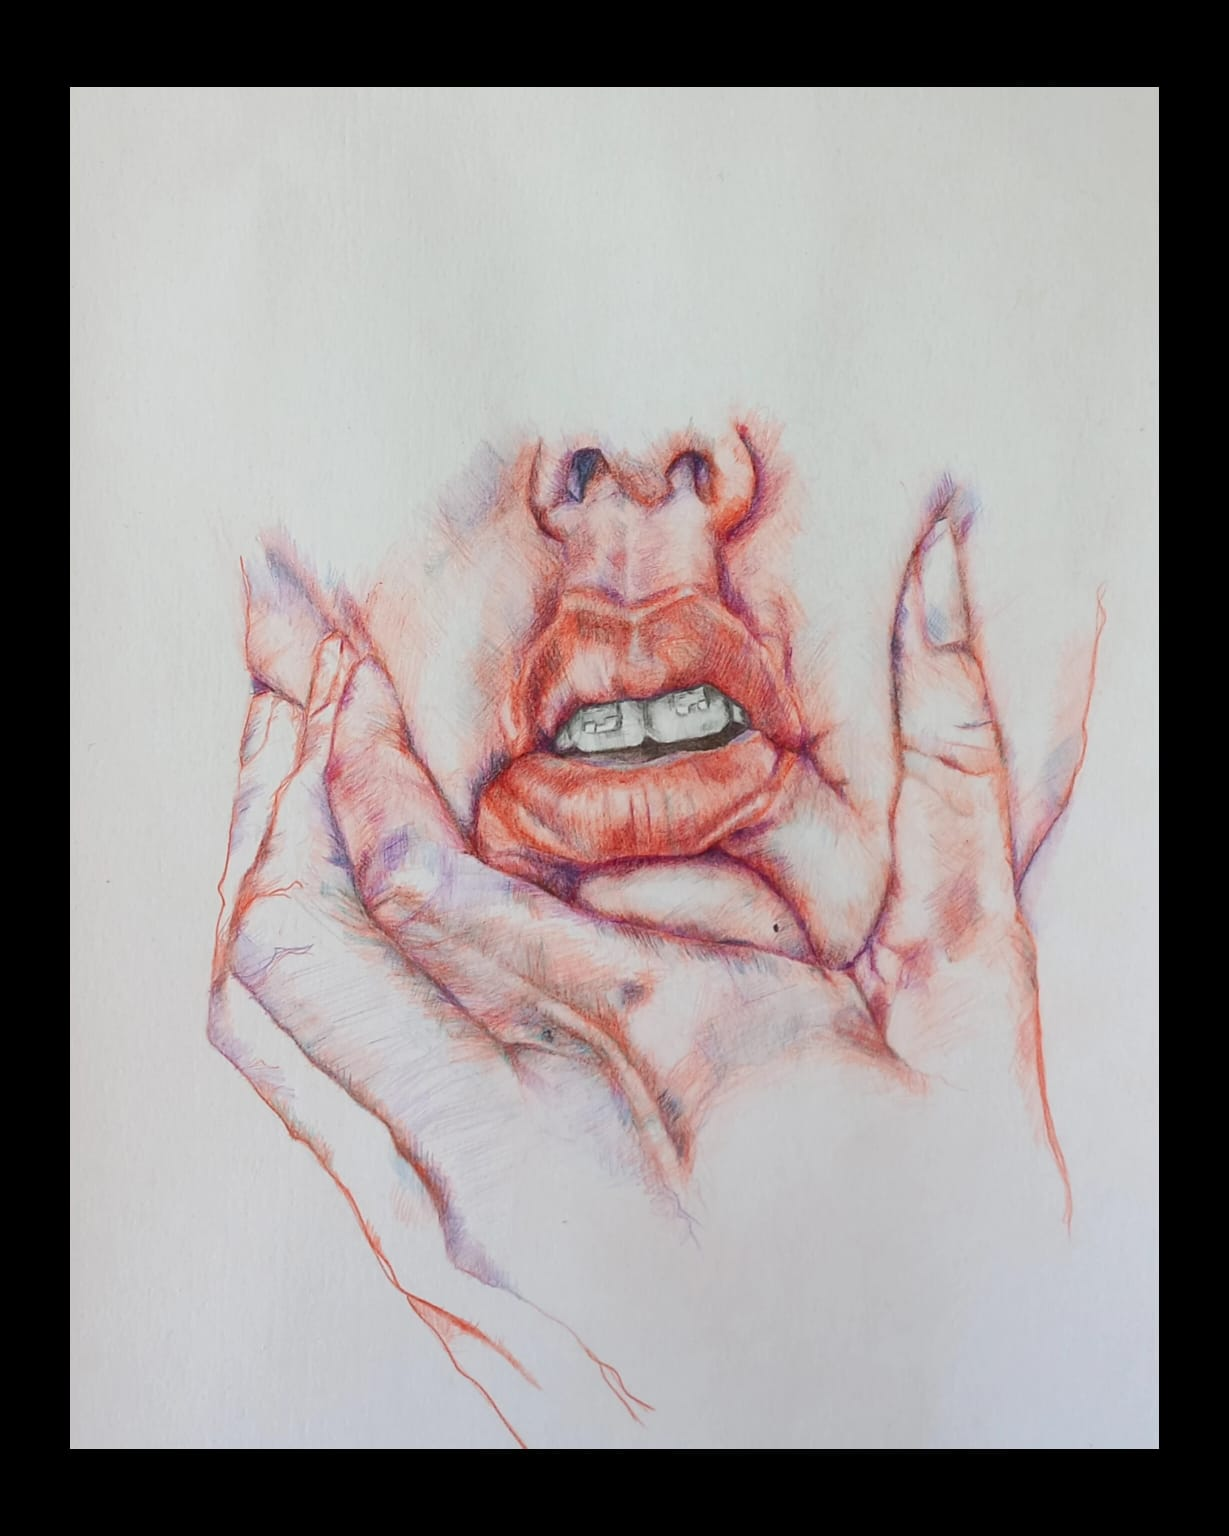
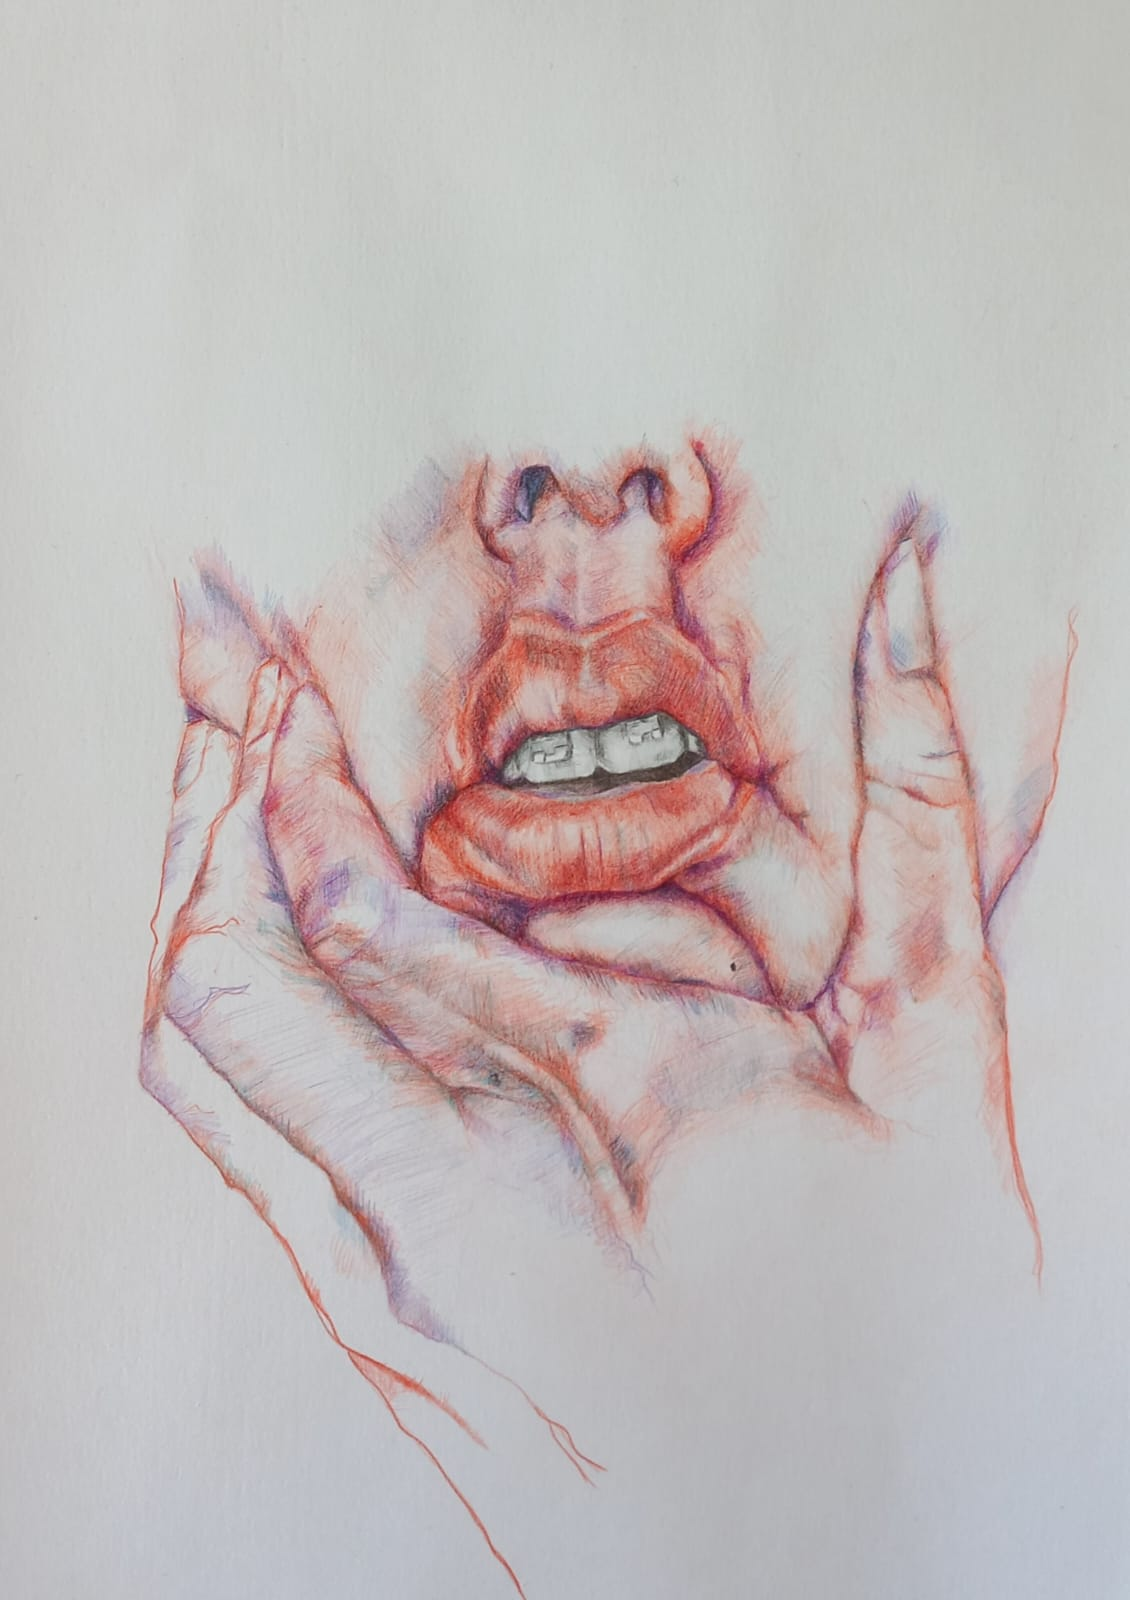
Changes images

diff --git a/slide-style.css b/slide-style.css
@@ -1,3 +1,6 @@
+*{
+    /*border: 1px red solid;*/
+}
 /* Estilo básico para la galería */
 figure {
   margin:0;
@@ -32,6 +35,7 @@ figure {
     height: 100%; /* Asegura que las imágenes llenen el contenedor */
     object-fit: contain; /* Ajusta la imagen para cubrir el contenedor sin distorsión */
     display: block;
+    box-shadow: #1d1d1d 2px 2px 10px;
 }
 
 .gallery-item.active {
